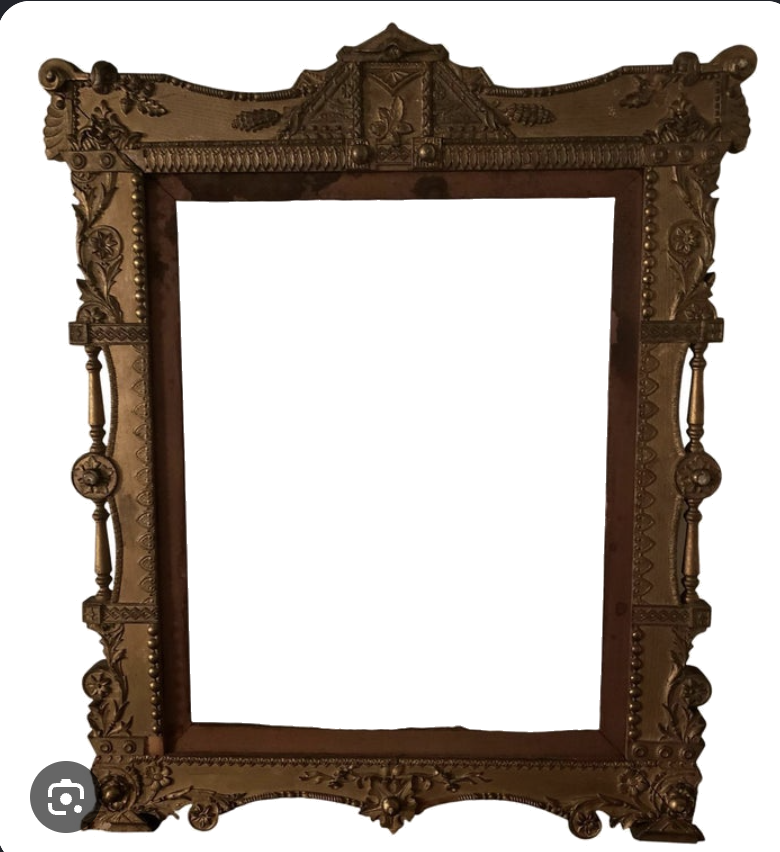
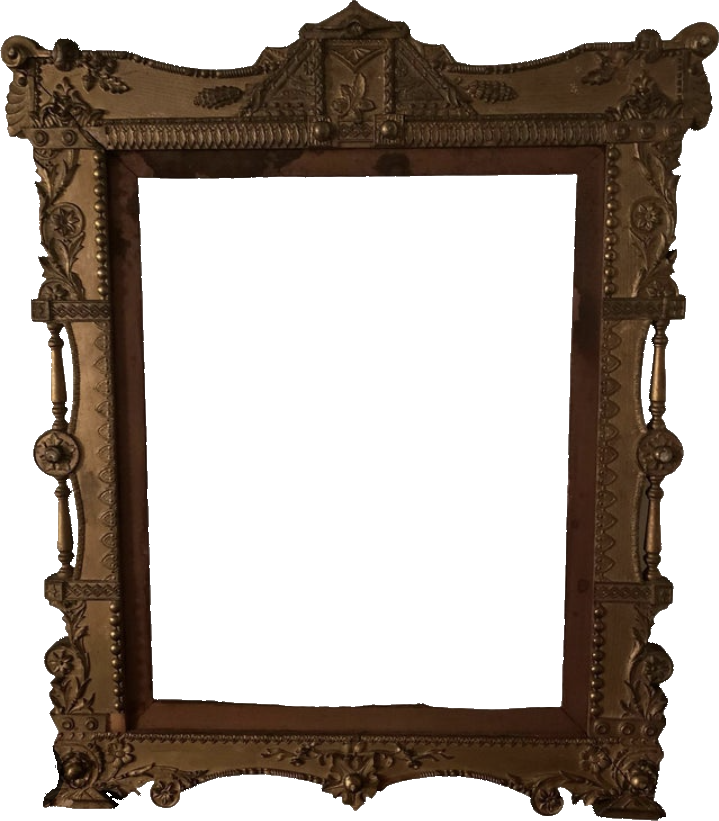
Clean the photo frame and give it the full stage.
Strip white/gray cutout junk from the gold frame, pin the film strip to the bottom, and let landscape photos fill the leftover space.

Changed region(s): [[0.0, 0.0, 1.0, 1.0]]

diff --git a/src/pages/PhotoPage.jsx b/src/pages/PhotoPage.jsx
@@ -16,26 +16,29 @@ const drift = keyframes`
 const Panel = styled.div`
   width: 100%;
   height: 100%;
-  overflow-x: hidden;
-  overflow-y: auto;
+  display: flex;
+  flex-direction: column;
+  overflow: hidden;
   overscroll-behavior: contain;
-  background:
-    radial-gradient(ellipse 70% 55% at 50% 28%, #1a1410 0%, transparent 70%),
-    #0a0908;
+  background: #0a0908;
   color: #fff;
   box-sizing: border-box;
-  padding: 16px 0 28px;
+  padding: 0;
   pointer-events: auto;
-  -webkit-overflow-scrolling: touch;
   font-family: ${font};
 `
 
+/** Frame takes every leftover pixel above the fixed strip. */
 const Stage = styled.div`
+  flex: 1 1 auto;
+  min-height: 0;
+  width: 100%;
   display: flex;
-  flex-direction: column;
   align-items: center;
-  gap: 22px;
-  min-height: min(100%, 720px);
+  justify-content: center;
+  padding: 6px 10px 4px;
+  box-sizing: border-box;
+  container-type: size;
 `
 
 const Slide = styled.img`
@@ -51,28 +54,23 @@ const Slide = styled.img`
   z-index: ${(p) => (p.$show ? 2 : 1)};
 `
 
-/** Full-bleed film strip under the frame. */
+/** Fixed low strip — doesn't steal vertical space from the frame. */
 const StripRail = styled.div`
-  width: 100vw;
-  margin-left: calc(50% - 50vw);
+  flex: 0 0 auto;
+  width: 100%;
   overflow: hidden;
-  padding: 10px 0 6px;
+  padding: 8px 0 10px;
   background:
-    linear-gradient(180deg, transparent, rgba(0, 0, 0, 0.35)),
-    repeating-linear-gradient(
-      90deg,
-      #1a120c 0 10px,
-      #120c08 10px 12px
-    );
-  border-top: 1px solid rgba(196, 160, 106, 0.18);
-  border-bottom: 1px solid rgba(0, 0, 0, 0.55);
-  mask-image: linear-gradient(90deg, transparent, #000 6%, #000 94%, transparent);
+    linear-gradient(180deg, rgba(0, 0, 0, 0.15), rgba(0, 0, 0, 0.45)),
+    #100c08;
+  border-top: 1px solid rgba(196, 160, 106, 0.16);
+  mask-image: linear-gradient(90deg, transparent, #000 5%, #000 95%, transparent);
 `
 
 const StripTrack = styled.div`
   display: flex;
   width: max-content;
-  gap: 8px;
+  gap: 7px;
   padding: 0 8px;
   ${(p) => (p.$run ? css`
     animation: ${drift} ${p.$sec}s linear infinite;
@@ -85,23 +83,20 @@ const StripTrack = styled.div`
 
 const StripShot = styled.button`
   flex: 0 0 auto;
-  width: clamp(112px, 18vw, 168px);
+  width: clamp(88px, 14vw, 132px);
   aspect-ratio: 4 / 3;
   padding: 0;
-  border: 2px solid ${(p) => (p.$on ? '#c4a06a' : 'rgba(255, 230, 190, 0.18)')};
+  border: 2px solid ${(p) => (p.$on ? '#c4a06a' : 'rgba(255, 230, 190, 0.16)')};
   background: #000;
   cursor: pointer;
   overflow: hidden;
-  box-shadow:
-    0 2px 8px rgba(0, 0, 0, 0.4),
-    inset 0 0 0 1px rgba(0, 0, 0, 0.5);
 
   img {
     width: 100%;
     height: 100%;
     object-fit: cover;
     display: block;
-    opacity: ${(p) => (p.$on ? 1 : 0.78)};
+    opacity: ${(p) => (p.$on ? 1 : 0.75)};
     transition: opacity 0.25s ease;
   }
 
@@ -168,7 +163,6 @@ export default function PhotoPage() {
     return () => window.clearTimeout(clear)
   }, [featuredIndex])
 
-  // When the featured slide changes, morph the frame to that photo's ratio.
   useEffect(() => {
     const cached = aspects.current[featuredIndex]
     if (cached) setAspect(cached)
@@ -225,31 +219,33 @@ export default function PhotoPage() {
         {status === 'empty' && <FrostNote>No photos yet.</FrostNote>}
         {status === 'error' && <FrostNote>Could not load photos.</FrostNote>}
         {status === 'ready' && featured ? (
-          <Stage>
-            <OrnatePhotoFrame
-              aspect={aspect}
-              caption={caption}
-              onClick={() => open(featured, featuredIndex)}
-              onMouseEnter={() => setPaused(true)}
-              onMouseLeave={() => setPaused(false)}
-              onFocus={() => setPaused(true)}
-              onBlur={() => setPaused(false)}
-              aria-label="Open featured photo"
-            >
-              {layers.map((layer) => {
-                const photo = photos[layer.index]
-                if (!photo) return null
-                return (
-                  <Slide
-                    key={layer.key}
-                    src={urlFor(photo).width(1200).url()}
-                    alt=""
-                    $show={layer.show}
-                    onLoad={(e) => rememberAspect(layer.index, e.currentTarget)}
-                  />
-                )
-              })}
-            </OrnatePhotoFrame>
+          <>
+            <Stage>
+              <OrnatePhotoFrame
+                aspect={aspect}
+                caption={caption}
+                onClick={() => open(featured, featuredIndex)}
+                onMouseEnter={() => setPaused(true)}
+                onMouseLeave={() => setPaused(false)}
+                onFocus={() => setPaused(true)}
+                onBlur={() => setPaused(false)}
+                aria-label="Open featured photo"
+              >
+                {layers.map((layer) => {
+                  const photo = photos[layer.index]
+                  if (!photo) return null
+                  return (
+                    <Slide
+                      key={layer.key}
+                      src={urlFor(photo).width(1600).url()}
+                      alt=""
+                      $show={layer.show}
+                      onLoad={(e) => rememberAspect(layer.index, e.currentTarget)}
+                    />
+                  )
+                })}
+              </OrnatePhotoFrame>
+            </Stage>
 
             <StripRail aria-label="Photo strip">
               <StripTrack $run={photos.length > 1} $sec={stripSec}>
@@ -266,7 +262,7 @@ export default function PhotoPage() {
                       aria-current={on ? 'true' : undefined}
                     >
                       <img
-                        src={urlFor(photo).width(420).height(315).fit('crop').url()}
+                        src={urlFor(photo).width(360).height(270).fit('crop').url()}
                         alt=""
                         loading="lazy"
                         draggable={false}
@@ -276,7 +272,7 @@ export default function PhotoPage() {
                 })}
               </StripTrack>
             </StripRail>
-          </Stage>
+          </>
         ) : null}
       </Panel>
       {typeof document !== 'undefined'

diff --git a/src/components/OrnatePhotoFrame.jsx b/src/components/OrnatePhotoFrame.jsx
@@ -2,36 +2,33 @@ import styled from 'styled-components'
 import PropTypes from 'prop-types'
 
 /**
- * Your carved gold frame, punched transparent in the opening,
- * stretched so the opening matches the photo aspect.
- *
- * Insets / opening fractions measured from the source asset.
+ * Carved gold frame PNG (transparent opening), stretched so the
+ * opening matches the photo aspect. Fills its parent as large as possible.
  */
-const OPEN_W = 0.5615
-const OPEN_H = 0.6268
+const OPEN_W = 0.6106
+const OPEN_H = 0.6516
 const FRAME_INSET = {
-  left: '22.69%',
-  right: '21.15%',
-  top: '23.24%',
-  bottom: '14.08%',
+  left: '19.19%',
+  right: '19.75%',
+  top: '21.19%',
+  bottom: '13.64%',
 }
 
 const Shell = styled.button`
   position: relative;
   display: block;
-  /* Outer box aspect so the *opening* equals the photo ratio. */
-  width: min(
-    92vw,
-    560px,
-    calc(58vh * ${(p) => p.$frameAspect})
-  );
+  /* Fill the stage: as big as container allows while keeping opening aspect. */
+  width: min(100%, calc(100cqh * ${(p) => p.$frameAspect}));
+  max-width: 100%;
+  max-height: 100%;
   aspect-ratio: ${(p) => p.$frameAspect};
+  height: auto;
   margin: 0;
   padding: 0;
   border: 0;
   background: transparent;
   cursor: pointer;
-  filter: drop-shadow(0 16px 36px rgba(0, 0, 0, 0.55));
+  filter: drop-shadow(0 18px 40px rgba(0, 0, 0, 0.6));
   transition: width 0.7s ease, aspect-ratio 0.7s ease;
 
   &:focus-visible {
@@ -55,7 +52,7 @@ const FrameArt = styled.img`
   inset: 0;
   width: 100%;
   height: 100%;
-  object-fit: fill; /* stretch with aspect — ornaments warp with the frame */
+  object-fit: fill;
   pointer-events: none;
   z-index: 3;
   user-select: none;
@@ -91,7 +88,6 @@ export default function OrnatePhotoFrame({
   'aria-label': ariaLabel,
 }) {
   const photoAspect = Number.isFinite(aspect) && aspect > 0.2 && aspect < 5 ? aspect : 4 / 3
-  // Stretch the whole PNG so its opening matches this photo ratio.
   const frameAspect = photoAspect * (OPEN_H / OPEN_W)
 
   return (
@@ -106,7 +102,7 @@ export default function OrnatePhotoFrame({
       aria-label={ariaLabel}
     >
       <Well>{children}</Well>
-      <FrameArt src="/photo-frame.png" alt="" draggable={false} />
+      <FrameArt src="/photo-frame.png?v=4" alt="" draggable={false} />
       {caption ? <Caption>{caption}</Caption> : null}
     </Shell>
   )
